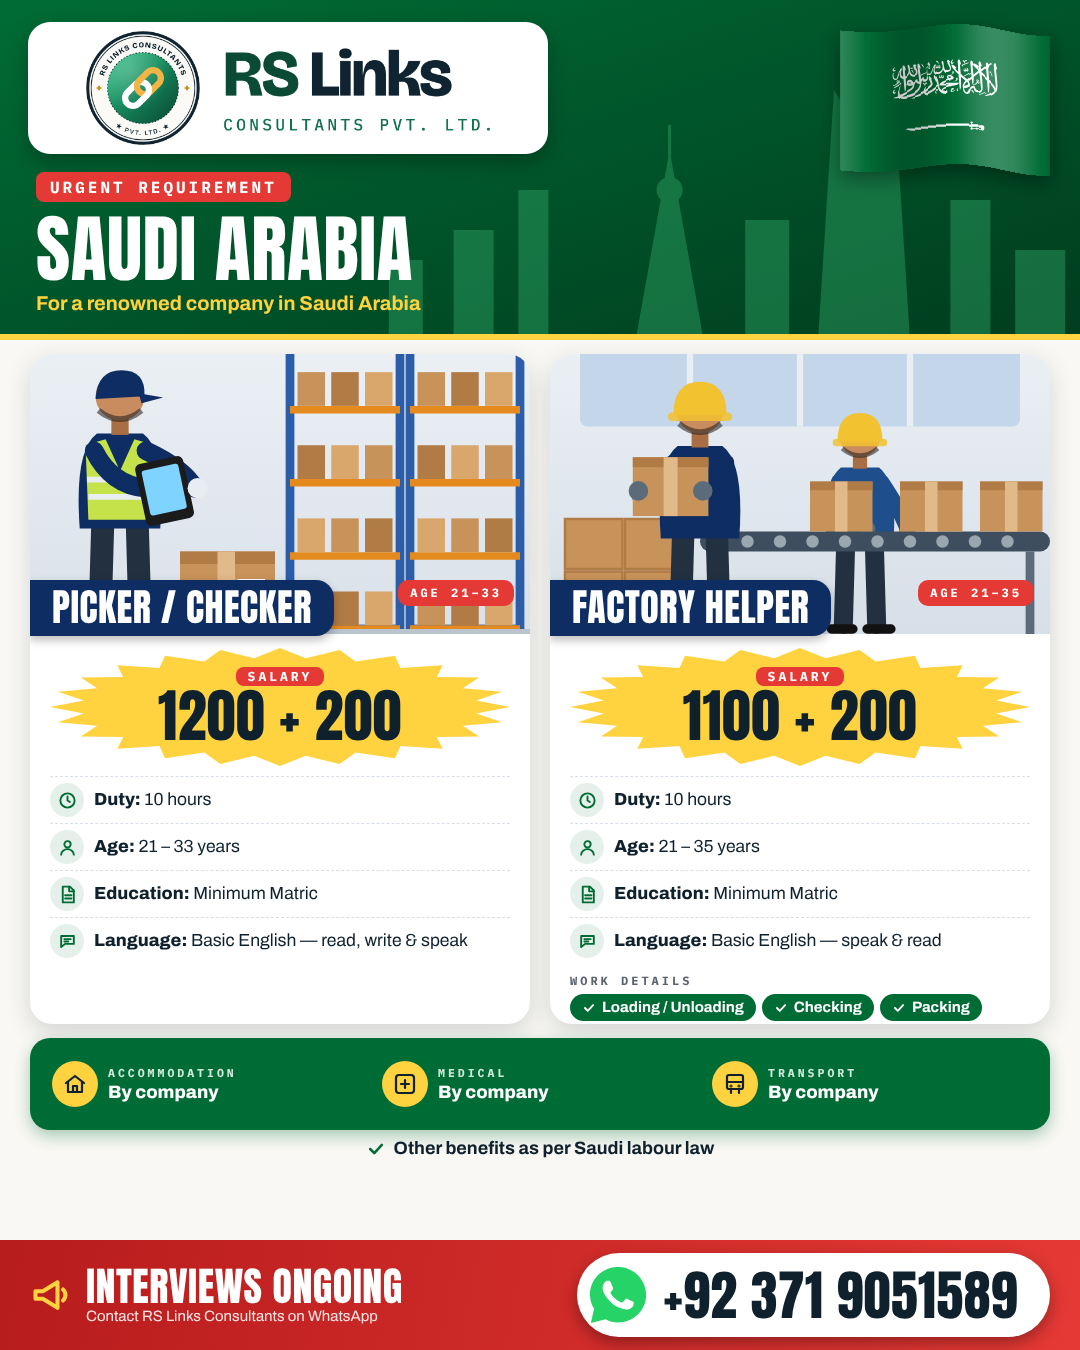
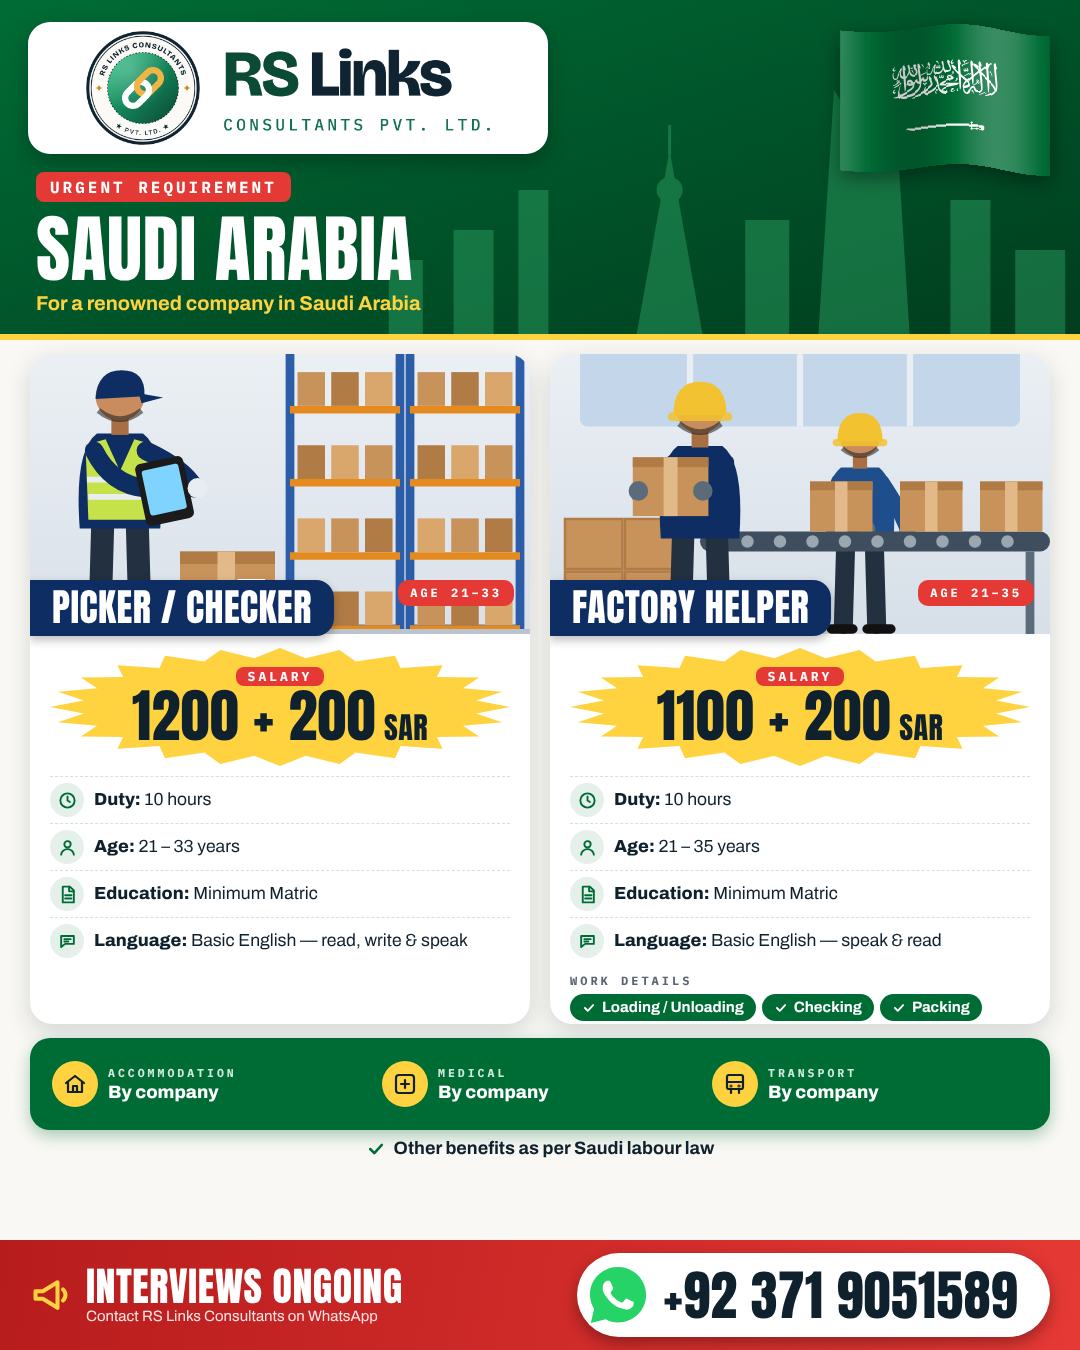
Saudi ad: show salaries in SAR (confirmed by user)
Claude-Session: https://claude.ai/code/session_01YJ5ofgU8QCiWTsYR9pvXG4

Changed region(s): [[0.6111, 0.4978, 0.8861, 0.56], [0.1222, 0.4978, 0.3972, 0.56]]

diff --git a/src/data/saudi_jobs.py b/src/data/saudi_jobs.py
@@ -5,7 +5,7 @@
    basic English (speaking, reading) · work: loading/unloading, checking, packing
  Both: accommodation, medical, transport by company · other benefits as per Saudi labour law ·
    "for a renowned company in Saudi Arabia" · interviews ongoing.
- Currency and salary period are NOT stated in the sources (shown exactly as "1200 + 200")."""
+ Currency SAR confirmed by user 2026-10-07; salary period not stated in the sources."""
 from common import C
 
 N = lambda v: f"<span class='num' style='font-family:Archivo;font-weight:800;letter-spacing:0'>{v}</span>"
@@ -23,13 +23,13 @@ DATA = {
         "opener": "For a renowned company in Saudi Arabia",
         "jobs": [
             {"scene": "picker_scene", "title": "Picker / Checker", "badge": "AGE 21–33",
-             "salary": {"label": "SALARY", "value": "1200 + 200"},
+             "salary": {"label": "SALARY", "value": "1200 + 200", "unit": "SAR"},
              "rows": [("clock", f"{B('Duty:')} 10 hours"),
                       ("user", f"{B('Age:')} 21 – 33 years"),
                       ("doc", f"{B('Education:')} Minimum Matric"),
                       ("chat", f"{B('Language:')} Basic English — read, write &amp; speak")]},
             {"scene": "helper_scene", "title": "Factory Helper", "badge": "AGE 21–35",
-             "salary": {"label": "SALARY", "value": "1100 + 200"},
+             "salary": {"label": "SALARY", "value": "1100 + 200", "unit": "SAR"},
              "rows": [("clock", f"{B('Duty:')} 10 hours"),
                       ("user", f"{B('Age:')} 21 – 35 years"),
                       ("doc", f"{B('Education:')} Minimum Matric"),
@@ -49,13 +49,13 @@ DATA = {
         "opener": "سعودی عرب کی مشہور کمپنی کے لیے درج ذیل آسامیوں کی فوری ضرورت ہے",
         "jobs": [
             {"scene": "picker_scene", "title": "پکر / چیکر", "badge": f"عمر {N('21 – 33')}",
-             "salary": {"label": "سیلری", "value": "1200 + 200"},
+             "salary": {"label": "سیلری", "value": "1200 + 200", "unit": "SAR"},
              "rows": [("clock", f"{B('ڈیوٹی ٹائم:')} {N(10)} گھنٹے"),
                       ("user", f"{B('عمر کی حد:')} {N('21 – 33')} سال"),
                       ("doc", f"{B('تعلیم:')} کم از کم میٹرک"),
                       ("chat", f"{B('زبان:')} بیسک انگلش — لکھنا، پڑھنا اور بولنا")]},
             {"scene": "helper_scene", "title": "فیکٹری ہیلپر", "badge": f"عمر {N('21 – 35')}",
-             "salary": {"label": "سیلری", "value": "1100 + 200"},
+             "salary": {"label": "سیلری", "value": "1100 + 200", "unit": "SAR"},
              "rows": [("clock", f"{B('ڈیوٹی:')} {N(10)} گھنٹے"),
                       ("user", f"{B('عمر کی حد:')} {N('21 – 35')} سال"),
                       ("doc", f"{B('تعلیم:')} کم از کم میٹرک"),

diff --git a/src/style_split.py b/src/style_split.py
@@ -64,7 +64,7 @@ def column(job, x, y, w, h, f, d, uid):
   <div class='abs' style='inset:0'>{burst(C['gold2'])}</div>
   <div class='abs' style='inset:0;display:flex;flex-direction:column;align-items:center;justify-content:center'>
    <div style='background:{C['red']};border-radius:8px;padding:{'0 12px 2px' if ur else '2px 12px'}'>{f.label(sal['label'], 13, 16, '#fff')}</div>
-   <div class='num' style='font-size:58px;color:{C['navy2']};line-height:1.05'>{sal['value']}</div></div></div>
+   <div class='num' style='font-size:58px;color:{C['navy2']};line-height:1.05'>{sal['value']}<span style='font-size:30px;margin-left:8px'>{sal.get('unit', '')}</span></div></div></div>
 <div class='abs' style='top:{sh + 142}px;left:20px;right:20px'>{rows}{tasks}</div>
 </div>"""
 

diff --git a/demands/2026-10-07-saudi/facts.md b/demands/2026-10-07-saudi/facts.md
@@ -9,7 +9,7 @@ Both: for a renowned company in Saudi Arabia · accommodation, medical, transpor
 other benefits as per Saudi labour law · interviews ongoing.
 
 ## To confirm
-- Currency and period of "1200 + 200" / "1100 + 200" are not stated (likely SAR monthly,
+- Currency confirmed by user: **SAR**. Period of "1200 + 200" / "1100 + 200" still not stated (likely monthly,
   basic + allowance) — shown exactly as written.
 - Picker/Checker language box says "FA (basic English)": FA may be an education requirement
   (Intermediate) that conflicts with "minimum Matric" — left out until confirmed.
